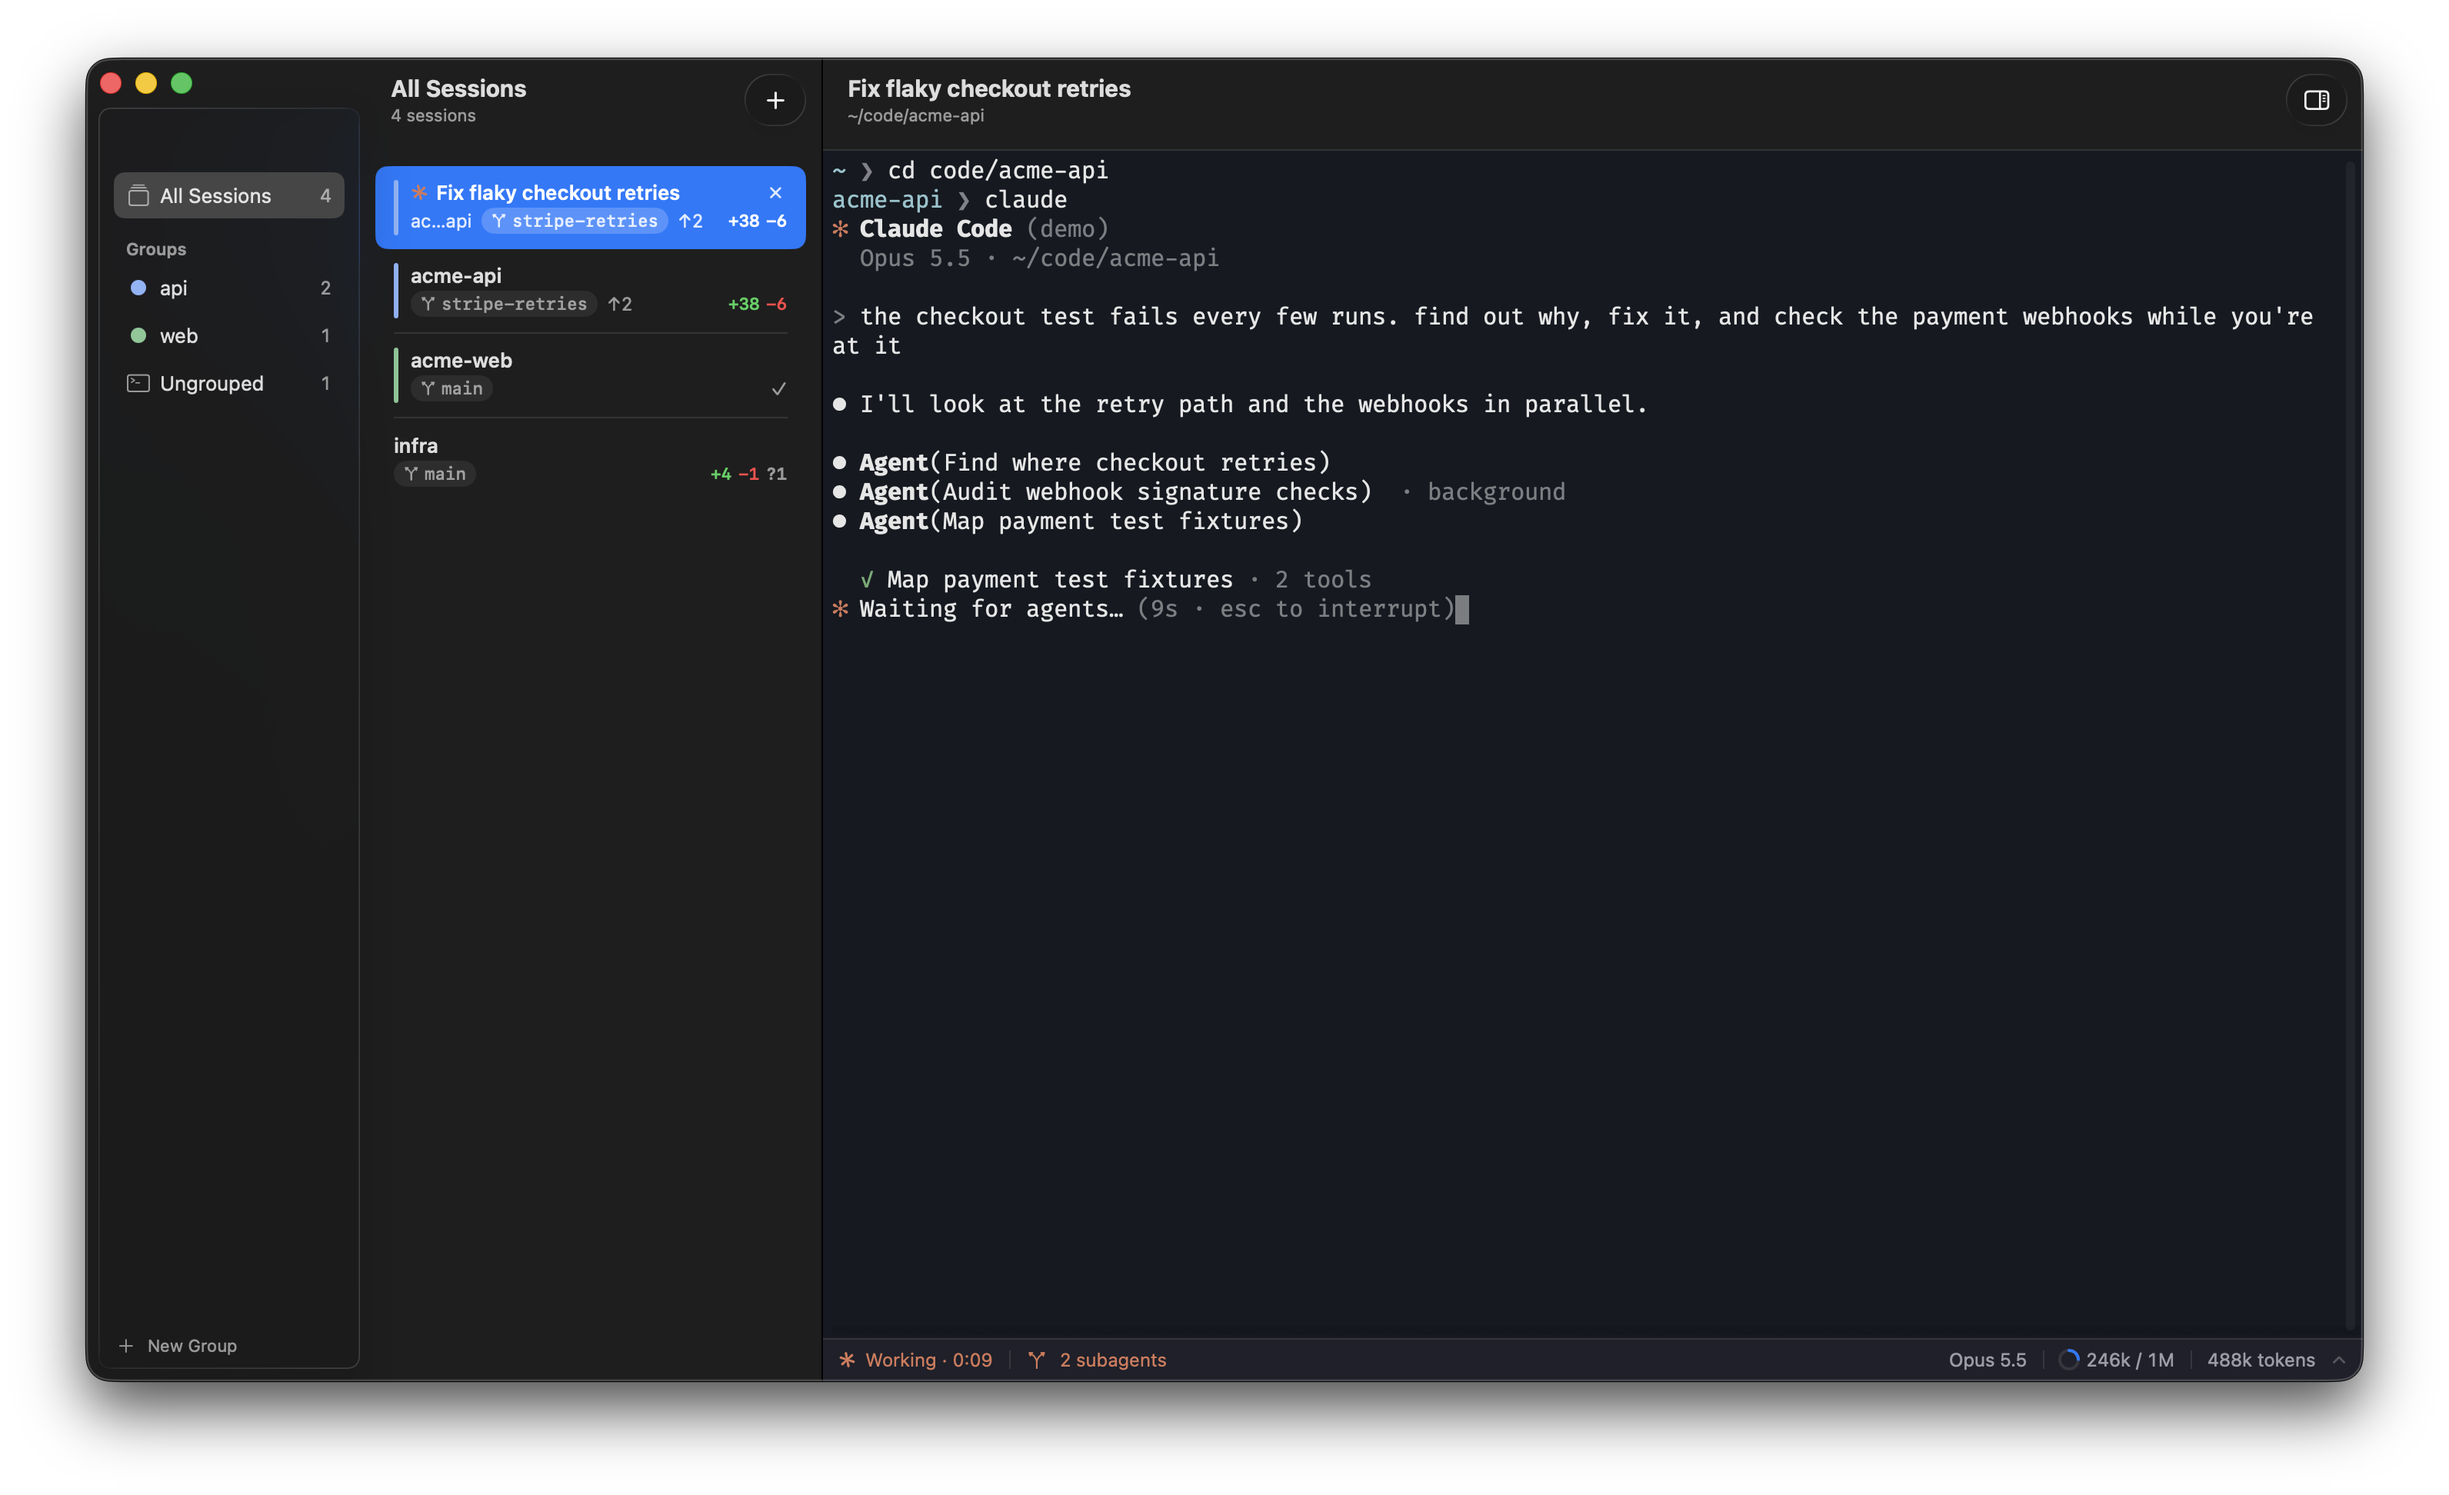
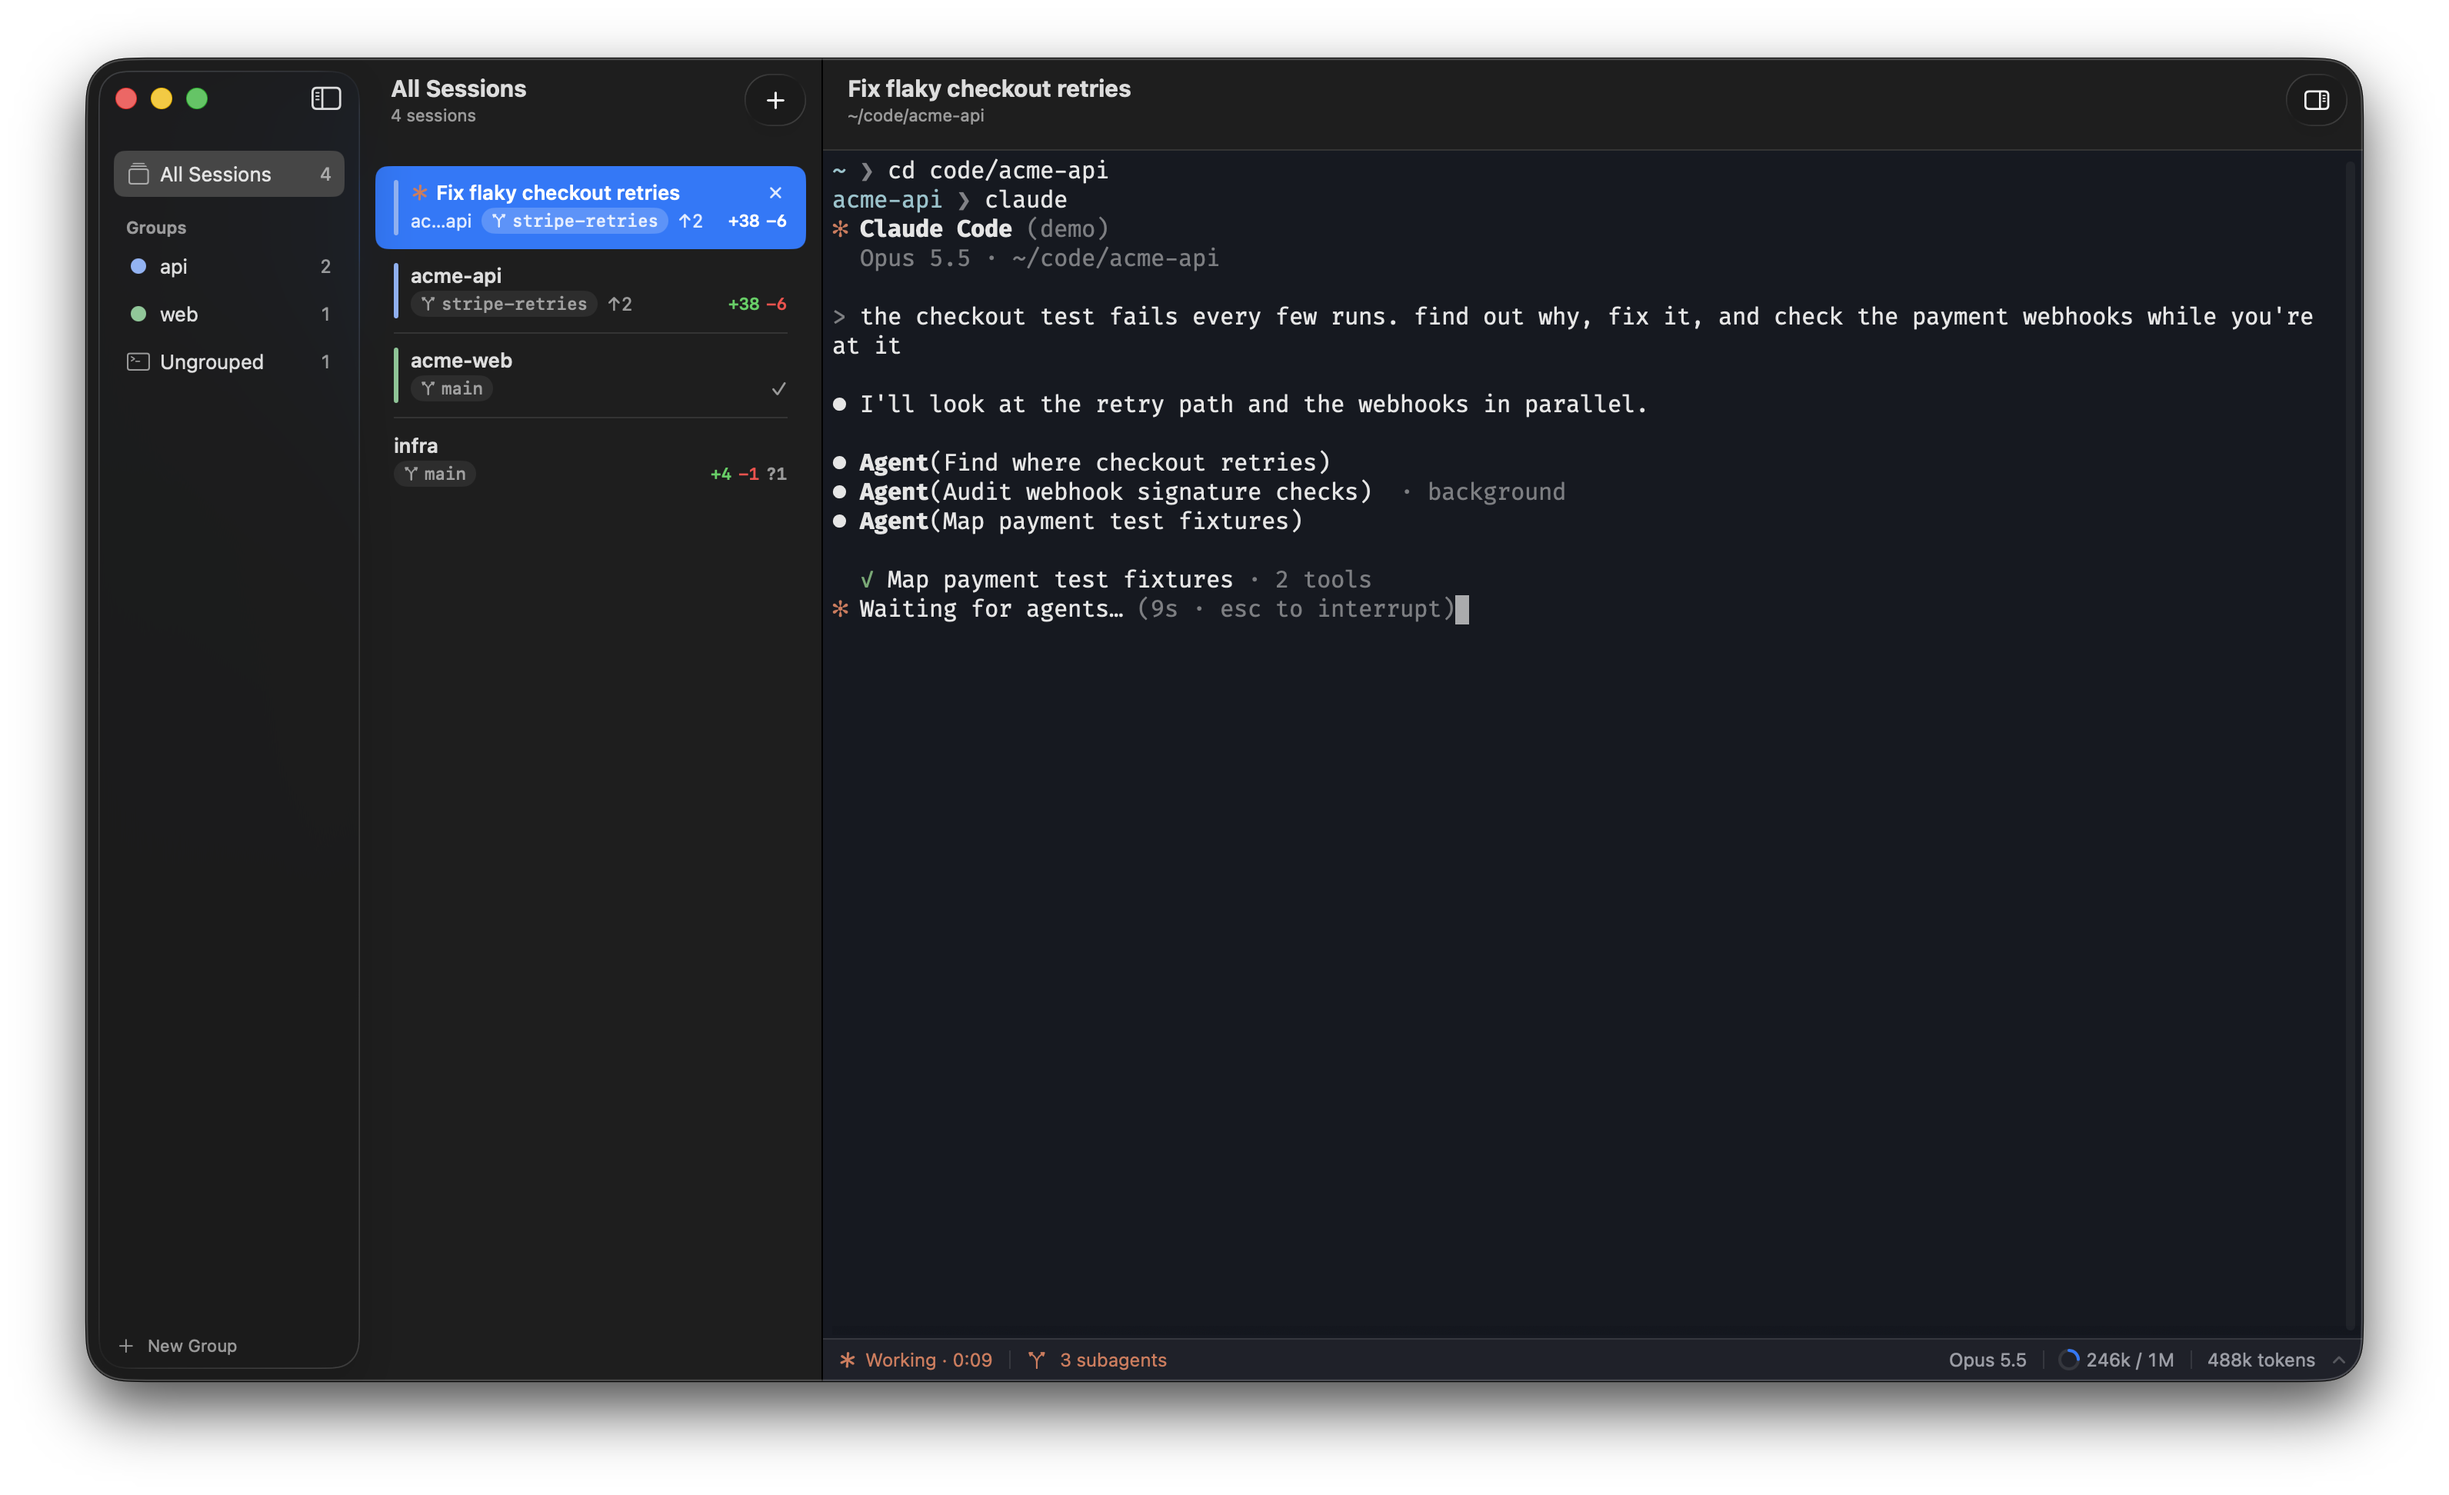
0.9.4: full-height sidebar with a collapse button, as in Mail; new screenshot

Changed region(s): [[0.0311, 0.0309, 0.1555, 0.2778], [0.0311, 0.8951, 0.0622, 0.9259]]

diff --git a/Sources/SmartTerminal/App/WindowController.swift b/Sources/SmartTerminal/App/WindowController.swift
@@ -8,7 +8,7 @@ final class TerminalWindow: NSWindow {
 
 /// One per layout window. Keeps the NSWindow title and frame in sync with the model.
 @MainActor
-final class WindowController: NSWindowController, NSWindowDelegate {
+final class WindowController: NSWindowController, NSWindowDelegate, NSToolbarDelegate {
     let windowID: UUID
     private let model: AppModel
     /// Set when the model closes the window (moved-out last tab); skips cleanup.
@@ -101,8 +101,31 @@ final class WindowController: NSWindowController, NSWindowDelegate {
         // The title stays set (Window menu, Mission Control) but isn't drawn: the headers show it.
         window.titlebarAppearsTransparent = columns
         window.titleVisibility = columns ? .hidden : .visible
+        // A toolbar: with one, macOS runs the sidebar's glass up to the window's top so
+        // the traffic lights sit inside it, as in Mail. Its only item is the sidebar
+        // toggle; the column headers draw their own buttons.
+        if columns {
+            let toolbar = NSToolbar(identifier: "columns")
+            toolbar.displayMode = .iconOnly
+            toolbar.delegate = self
+            window.toolbar = toolbar
+            window.toolbarStyle = .unified
+        } else {
+            window.toolbar = nil
+        }
         updateTitle()
     }
+
+    // MARK: - NSToolbarDelegate
+
+    /// The toggle sits at the sidebar's right edge, before the divider it tracks;
+    /// with the sidebar collapsed, macOS keeps it next to the traffic lights.
+    private static let toolbarItems: [NSToolbarItem.Identifier] = [.flexibleSpace, .toggleSidebar, .sidebarTrackingSeparator]
+
+    func toolbarDefaultItemIdentifiers(_ toolbar: NSToolbar) -> [NSToolbarItem.Identifier] { Self.toolbarItems }
+    func toolbarAllowedItemIdentifiers(_ toolbar: NSToolbar) -> [NSToolbarItem.Identifier] { Self.toolbarItems }
+    func toolbar(_ toolbar: NSToolbar, itemForItemIdentifier id: NSToolbarItem.Identifier,
+                 willBeInsertedIntoToolbar flag: Bool) -> NSToolbarItem? { NSToolbarItem(itemIdentifier: id) }
 
     private func storeFrame() {
         guard let f = window?.frame else { return }

diff --git a/Sources/SmartTerminal/Views/TabSidebarLayout.swift b/Sources/SmartTerminal/Views/TabSidebarLayout.swift
@@ -392,6 +392,10 @@ private struct SessionList: View {
     let windowID: UUID
     let model: AppModel
     let category: TabCategory
+    /// The column starts at the window's left edge: the groups column is collapsed and
+    /// the traffic lights and sidebar toggle sit over this header. Read from where the
+    /// column is, not from a visibility binding, which the toolbar's toggle doesn't update.
+    @State private var sidebarCollapsed = false
 
     var body: some View {
         let window = model.window(windowID)
@@ -419,6 +423,7 @@ private struct SessionList: View {
         }
         // Up under the transparent title bar, so the header sits level with the traffic lights.
         .ignoresSafeArea(.container, edges: .top)
+        .onGeometryChange(for: Bool.self) { $0.frame(in: .global).minX < 40 } action: { sidebarCollapsed = $0 }
     }
 
     /// Mail's list header: big title, a count below it, and grouped glass buttons.
@@ -434,7 +439,9 @@ private struct SessionList: View {
                 HeaderButton(symbol: "plus", help: "New Tab Here (⌘T)", action: newTab)
             }
         }
-        .padding(.leading, 20).padding(.trailing, 10)
+        // Collapsed sidebar: the traffic lights and the toggle sit where the title would.
+        .padding(.leading, sidebarCollapsed ? 150 : 20).padding(.trailing, 10)
+        .animation(.snappy(duration: 0.25), value: sidebarCollapsed)
         .padding(.top, 10)
         .frame(height: TabSidebarMetrics.headerHeight, alignment: .top)
     }

diff --git a/Sources/SmartTerminal/App/DebugChannel.swift b/Sources/SmartTerminal/App/DebugChannel.swift
@@ -61,6 +61,11 @@ final class DebugChannel {
             if let g = activeTab?.groupID { model.newTab(inGroup: g) }
         case "sidebar":
             if let w = keyWindowID { model.toggleSidebar(w) }
+        case "toggleGroups":
+            // The toolbar's sidebar toggle, without a click.
+            // Up the dev window's own responder chain, whichever app has focus.
+            let win = NSApp.windows.first { $0 is TerminalWindow }
+            _ = win?.firstResponder?.tryToPerform(#selector(NSSplitViewController.toggleSidebar(_:)), with: nil)
         case "layout":
             // strip | sidebar: the tab layout (View ▸ Tabs in Columns).
             UserDefaults.standard.set(a1, forKey: TabLayout.defaultsKey)

diff --git a/CHANGELOG.md b/CHANGELOG.md
@@ -1,5 +1,9 @@
 # Changelog
 
+## [0.9.4] - 2026-10-29
+- The groups sidebar runs the full height of the window, with the traffic lights inside it, as in Mail. macOS only draws a sidebar that way when the window has a toolbar, so columns mode now has one, holding a single item: the standard sidebar toggle at the sidebar's top right, which collapses the groups column. With the column collapsed, the session header moves right to clear the traffic lights and the toggle. It reads that from where the column sits, because the toolbar's toggle doesn't update SwiftUI's column visibility.
+- README screenshot retaken.
+
 ## [0.9.3] - 2026-10-29
 - Fix: a tab could spin its Claude asterisk forever while Claude sat idle. Claude Code can park a session into a background job (`parkedJobId` in `~/.claude/sessions/<pid>.json`), and from then on it stops updating that file, so its `status` stays frozen at `busy`. The file always beat the title glyph, so the frozen `busy` won over Claude's own live `✳`. Now a `busy` file gives way to an idle title when the file is parked or its status hasn't changed for 10 minutes. A working turn keeps the title spinning, `waiting` still comes only from the file, and a long `!` command (`shell`) still counts as work.
 

diff --git a/README.md b/README.md
@@ -53,7 +53,8 @@ A window has three columns:
 - **Groups** on the left: *All Sessions*, then each group with its color and how many
   tabs it has, then *Ungrouped*. An orange dot means a session in there needs you.
   Double-click a group to name or recolor it, right-click for the rest, and drag
-  groups to reorder them. *New Group* at the bottom opens a tab in a new group.
+  groups to reorder them. *New Group* at the bottom opens a tab in a new group. The
+  button at its top right, next to the traffic lights, collapses the column.
 - **Sessions** in the middle: the tabs in that group, as rows. Each row shows the tab's
   name and Claude status, then its folder with the **git branch** (`↑`/`↓` against its
   upstream) and the **uncommitted diff** as `+12 −4` (`?3` for untracked files, a check
